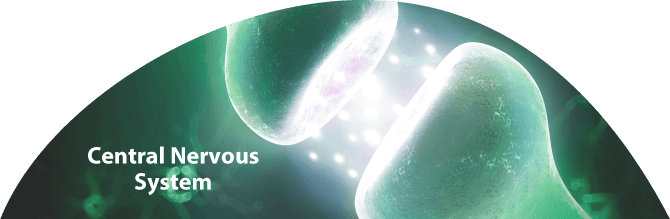
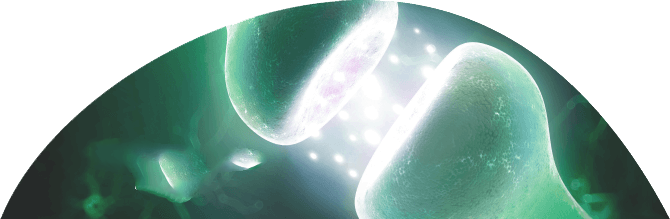
add green buble on top section in homepage + change text of cookie notice

diff --git a/index.html b/index.html
@@ -194,7 +194,7 @@
 <main>
 <!-- ======================== Main Content START =================================== -->
 <div class="wrapper">
-  
+
 
 <div class="box-mainvisual-top kkc-anime_load_top-mainvisual_arrow">
 <div class="box-inner box-cutting-edge-wrapper">
@@ -214,7 +214,10 @@
 <img src="images/index_img_mainparts_01.png" class="sp-hide" alt="Nephrology">
 <img src="images/index_img_mainparts_01_sp.png" class="pc-hide" alt="Nephrology">
 </div>
-
+<div class="box-parts parts-3 kkc-anime_load_top-mainvisual_parts-3 kkc-anime_state_animation-end">
+<img src="/images/index_img_mainparts_03.png" class="sp-hide" alt="Central Nervous System">
+<img src="/images/index_img_mainparts_03_sp.png" class="pc-hide" alt="Central Nervous System">
+</div>
 <div class="box-parts parts-4 kkc-anime_load_top-mainvisual_parts-4">
 <img src="images/index_img_mainparts_04.png" class="sp-hide" alt="Oncology">
 <img src="images/index_img_mainparts_04_sp.png" class="pc-hide" alt="Oncology">

diff --git a/share/css/common.css b/share/css/common.css
@@ -8793,11 +8793,11 @@ xx.js-enable .box-offices-globalarea .box-panel {
     right: -29.91667vw;
   }
   .box-mainvisual-top .parts-3 {
-    right: 10.41667vw;
+    right: 0vw;
     width: 55.83333vw;
   }
   .box-mainvisual-top .parts-3.animation-on {
-    right: 20.02102vw;
+    right:0vw;
   }
   .box-mainvisual-top .parts-4 {
     left: -30.5vw;
@@ -9824,11 +9824,11 @@ xx.js-enable .box-offices-globalarea .box-panel {
     right: 0;
   }
   .box-mainvisual-top .parts-3 {
-    right: 20.02102vw;
+    right: 0vw;
     width: 41.98634vw;
   }
   .box-mainvisual-top .parts-3.animation-on {
-    right: 20.02102vw;
+    right: 0vw;
   }
   .box-mainvisual-top .parts-4 {
     left: 0;
@@ -9840,6 +9840,9 @@ xx.js-enable .box-offices-globalarea .box-panel {
 }
 
 @media screen and (max-width: 768px) {
+  .box-mainvisual-top .parts-3{
+    display:none;
+  }
   .header > .header-inner .logo{
     padding-top: 10px;
   }

diff --git a/includes/footer.html b/includes/footer.html
@@ -42,7 +42,7 @@
 <div class="box-cookie-notice">
 <div class="box-inner">
   <div class="box-text">
-  <center><p>We use cookie to improve your experience on our site and to show you relevant content <a href="javascript:void(0)" id="cookie-notice-ok" class="btn-01 btn-small">OK</a></p></center>
+  <center><p>We use cookie to improve your experience on our website. <a href="javascript:void(0)" id="cookie-notice-ok" class="btn-01 btn-small">OK</a></p></center>
   <!-- /.box-text --></div>
 <!-- /.box-inner --></div>
 <!-- /.cookie-notice-wrapper --></div>
